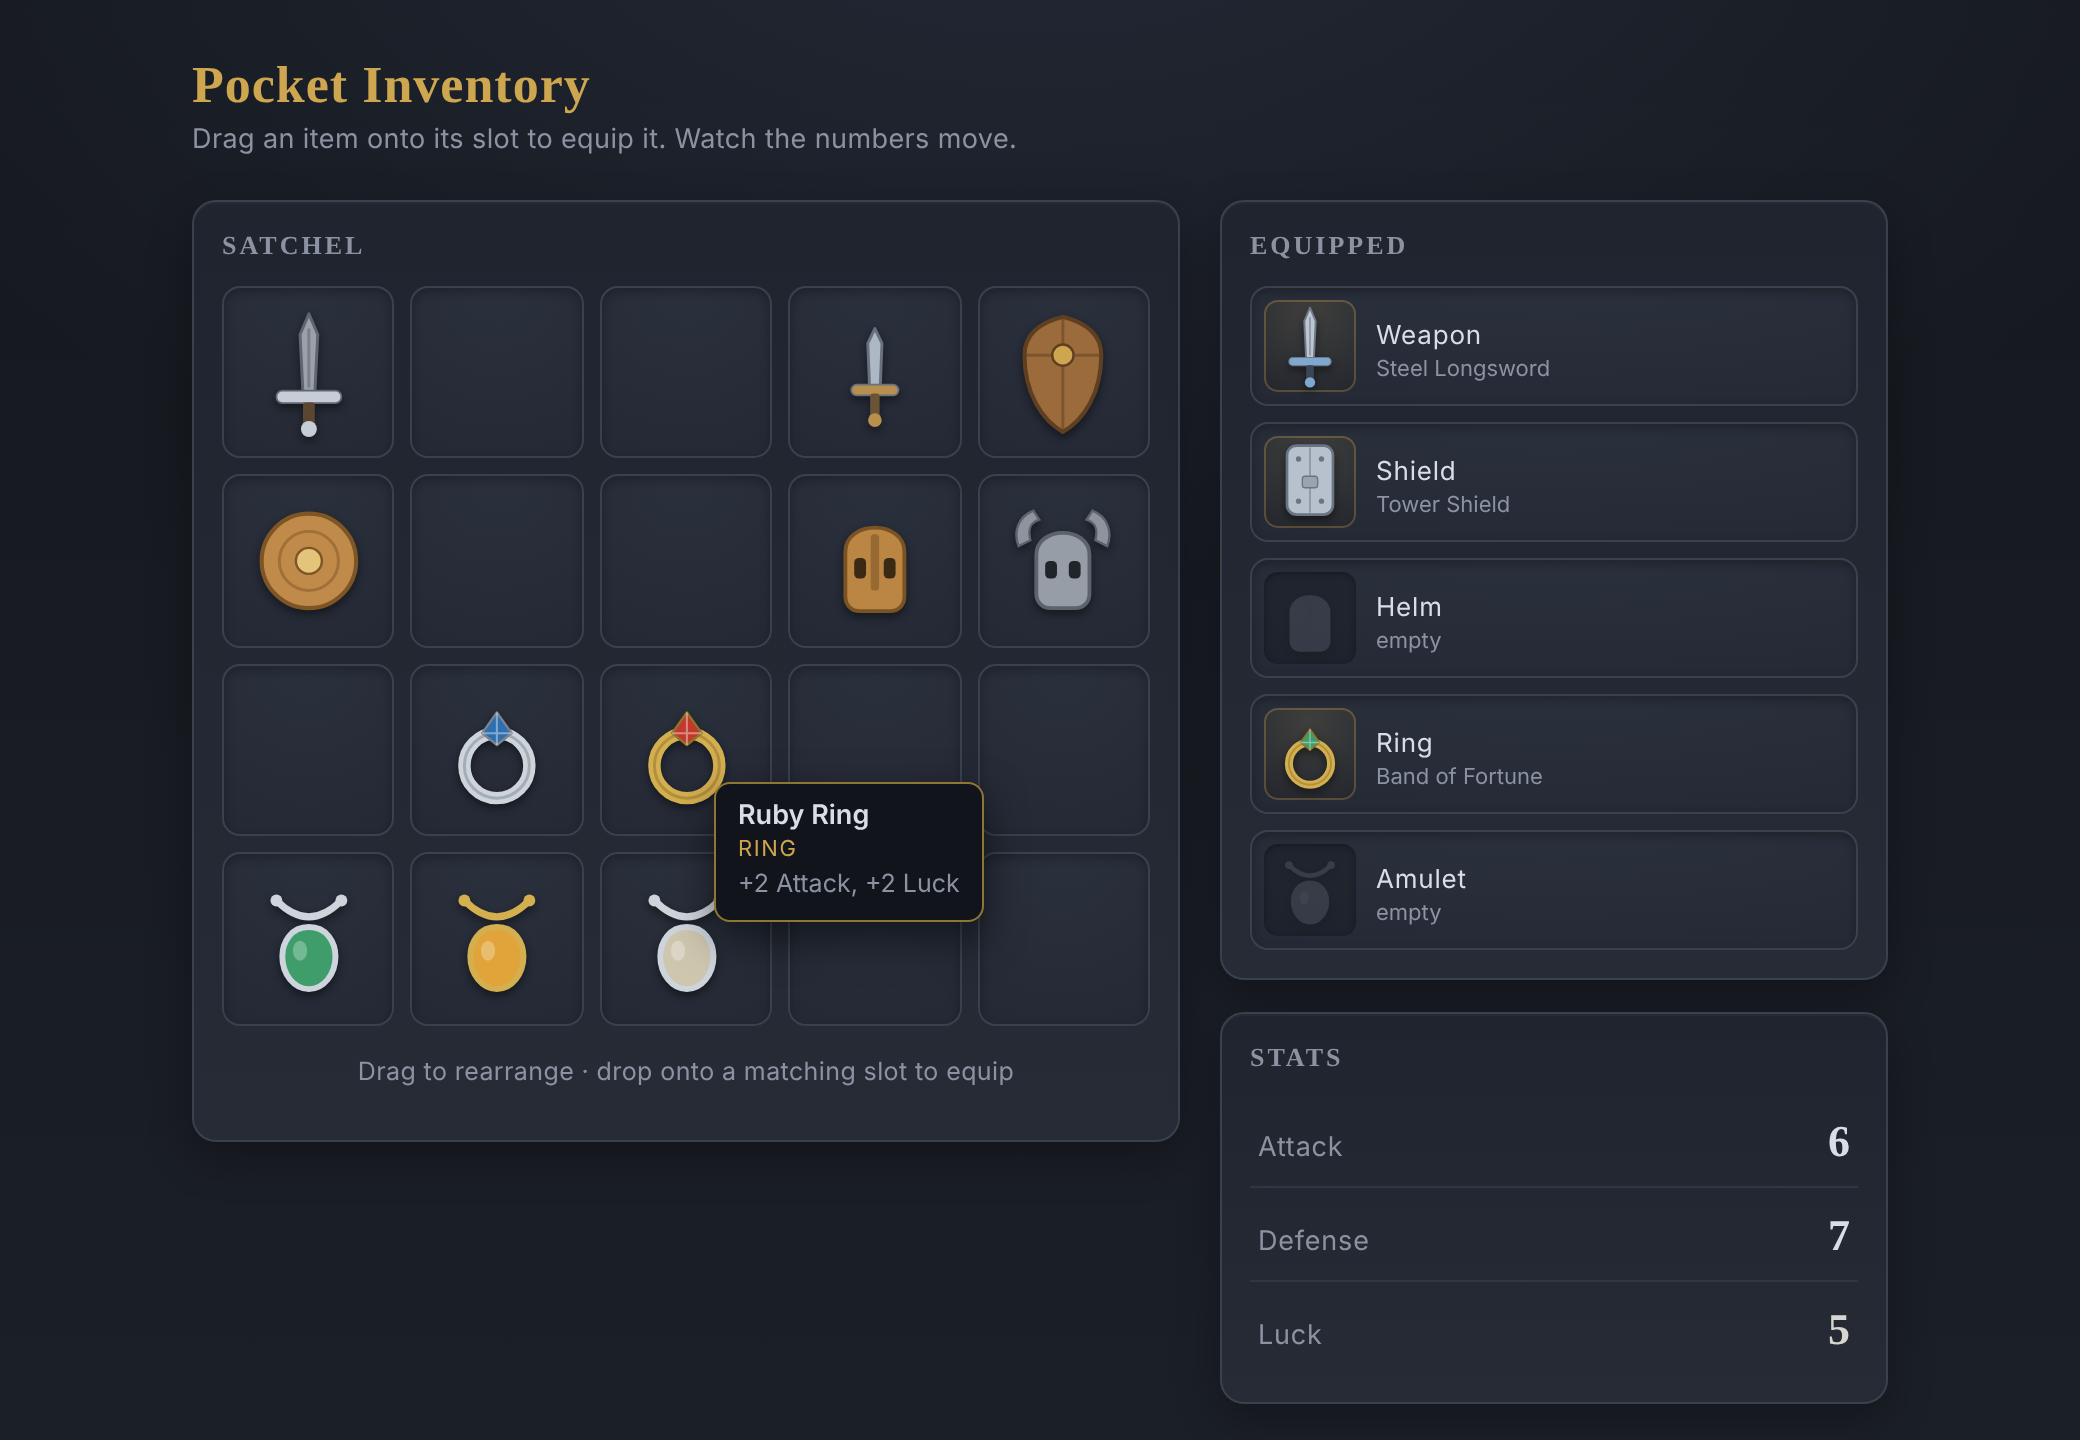
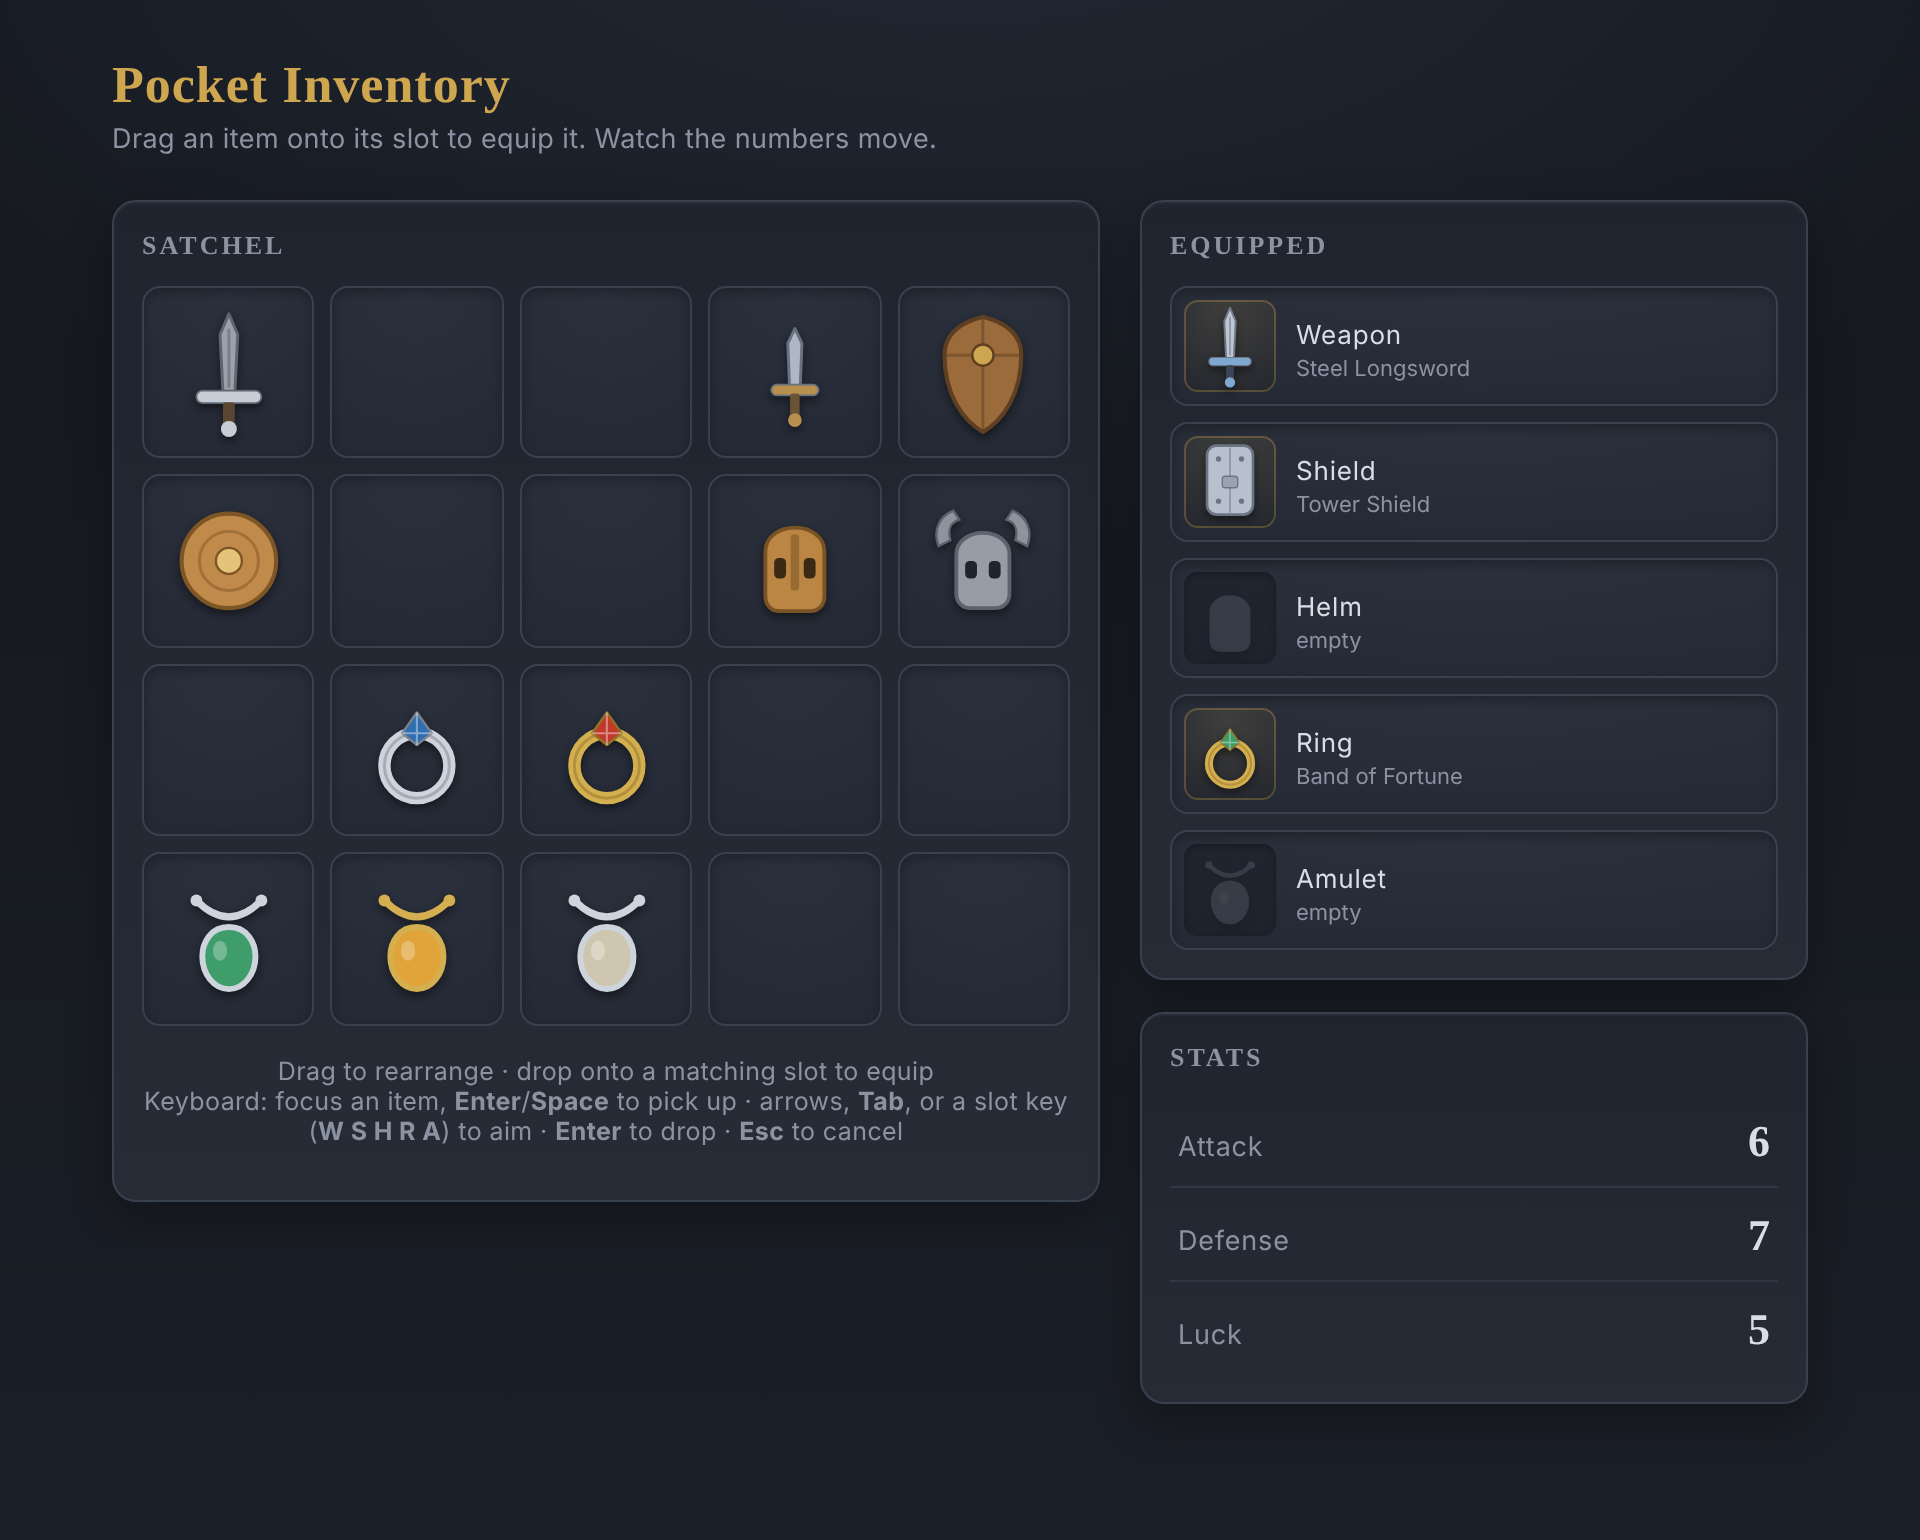
pocket-inventory: document the keyboard path + refresh screenshot (#140)
- README gains a keyboard paragraph (pick up, aim, drop, cancel; shared
  applyDrop validation; live-region announcements) and the revisit footer
  'Day 058 (revisited day 095)' per STYLE.md
- screenshot refreshed from the shipped build (now shows the keyboard hint
  line); font disclosure added per §9.3 (system UI faces, rendered not embedded)

diff --git a/builds/pocket-inventory/README.md b/builds/pocket-inventory/README.md
@@ -10,6 +10,8 @@ A drag-and-drop RPG pocket inventory — move items on a grid, equip them into t
 
 A grid of items sits beside five equip slots — Weapon, Shield, Helm, Ring, Amulet. Every item is drawn from inline SVG shapes, so nothing is downloaded. Drag an item from one grid cell to another to move it, or drop it onto an occupied cell to swap the two. Drag an item onto its matching equip slot to wear it: a sword only fits the Weapon slot, a ring only the Ring slot, and a wrong-type drop is refused and snaps back to where it came from. Equipping an item adds its modifiers to the Attack, Defense, and Luck totals in the stats panel; dragging an equipped item back to the grid takes it off and the totals drop again. Hovering an item (or touching it on a phone) shows a tooltip with its name, its slot, and exactly what it adds.
 
+Everything also works from the keyboard. Tab to an item and press Enter or Space to pick it up; then aim with the arrow keys, Tab, or a slot's letter — W, S, H, R, A — and press Enter to drop, or Escape to cancel. A keyboard drop runs through the same validation and stat math as a drag, so a wrong-type placement is refused the same way, and an off-screen live region announces each pick-up, placement, and refusal for screen readers.
+
 The whole thing runs on one pointer code path, so the same drag works with a mouse or a finger. It is usable at phone width: the grid reflows, the equip column stacks, and dragging works by touch.
 
 ## How to run
@@ -22,8 +24,10 @@ open index.html
 
 ## Why it exists
 
-Seeded as part 4 of a 15-part RPG arc (issue [#77](https://github.com/yinggarykairui/factory-hub/issues/77)): after a map to walk on (tile-forge), people to talk to (dialogue-loom), and a fight to have (turn-clash), a role-playing game needs stuff to carry. pocket-inventory is the inventory-and-equipment subsystem the later arc builds can borrow.
+Seeded as part 4 of a 15-part RPG arc (issue [#77](https://github.com/yinggarykairui/factory-hub/issues/77)): after a map to walk on (tile-forge), people to talk to (dialogue-loom), and a fight to have (turn-clash), a role-playing game needs stuff to carry. pocket-inventory is the inventory-and-equipment subsystem the later arc builds can borrow. The day-095 revisit added the keyboard path.
+
+*Fonts: the system default UI sans-serif and serif faces — rendered into the screenshot, not embedded. Every item glyph is inline SVG, drawn in-repo.*
 
 ---
 
-*Day 058 of an autonomous build factory — [factory-hub](https://github.com/yinggarykairui/factory-hub)*
+*Day 058 (revisited day 095) of an autonomous build factory — [factory-hub](https://github.com/yinggarykairui/factory-hub)*
